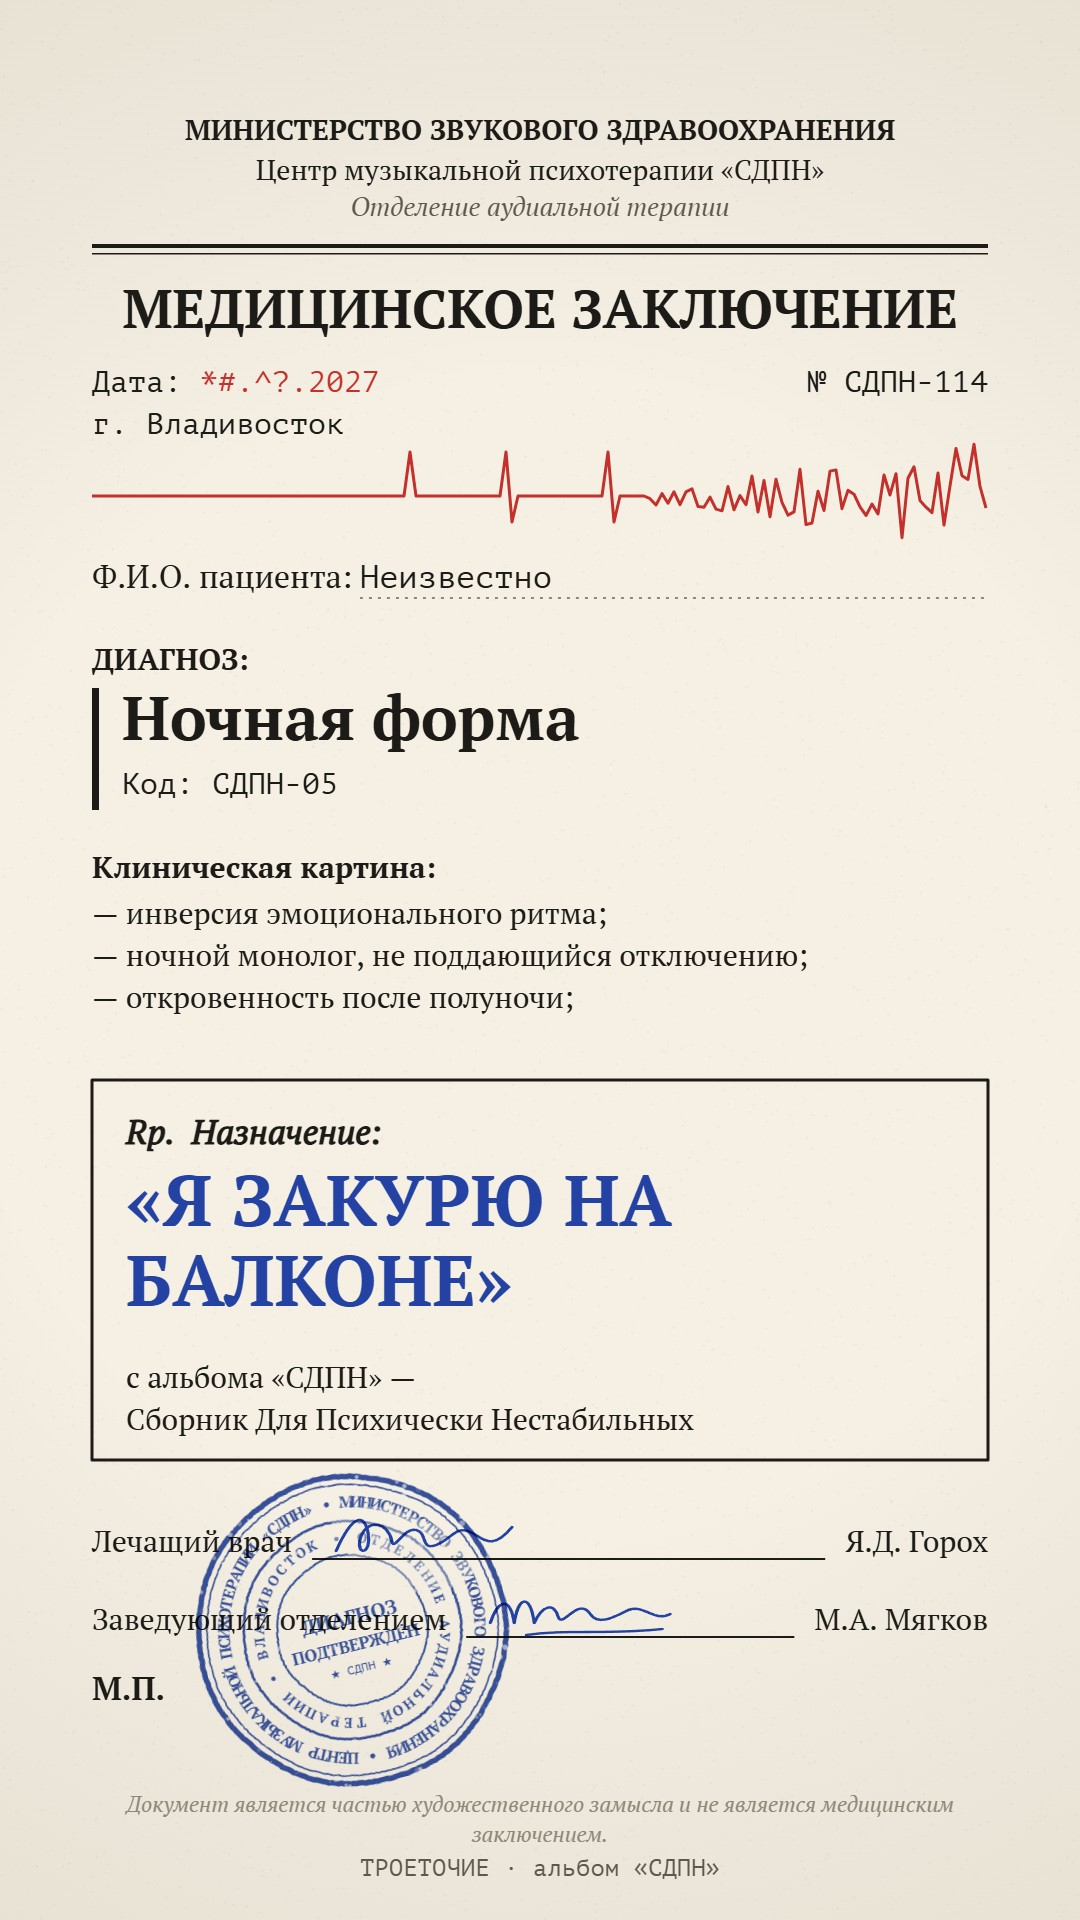
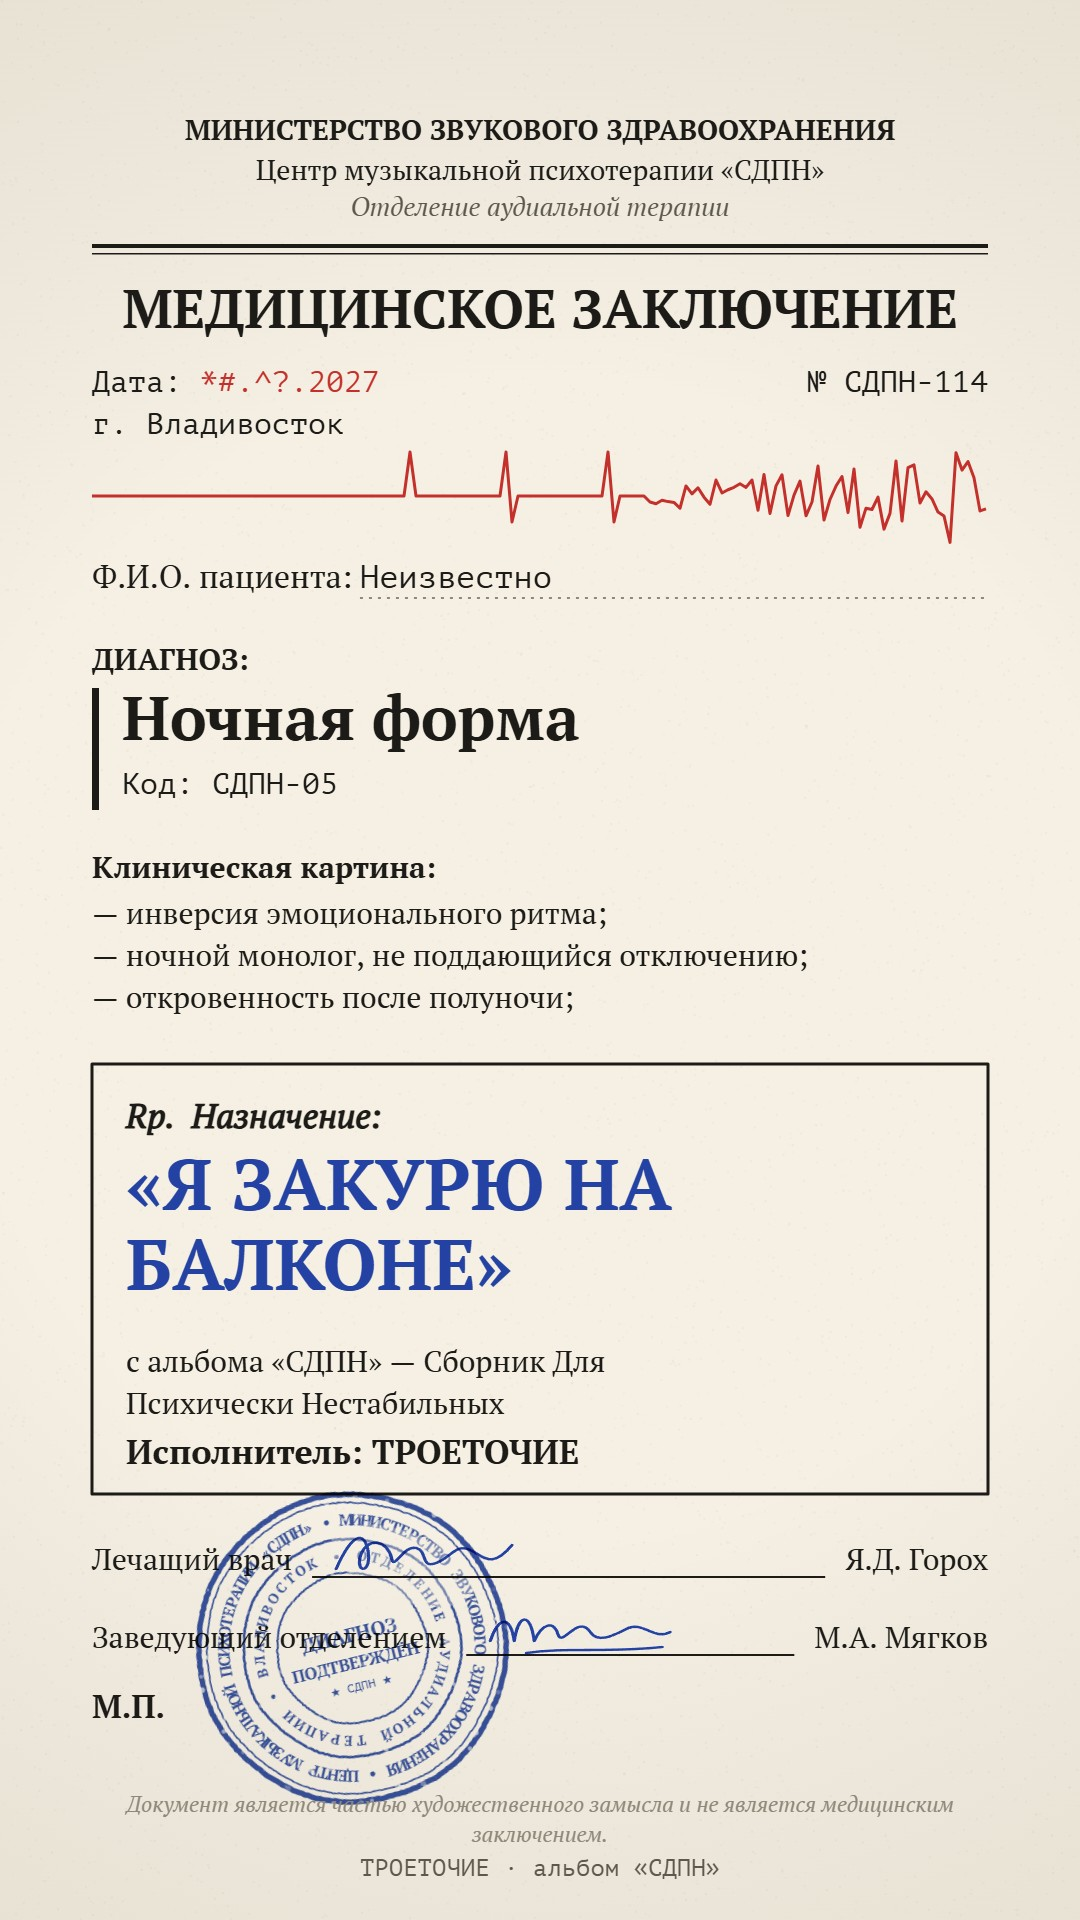
Указан исполнитель альбома: ТРОЕТОЧИЕ
Артист в регистратуре, в назначении, внизу бланка и на карточках для сторис.

Changed region(s): [[0.0917, 0.5625, 0.9167, 0.9375], [0.6111, 0.2188, 0.9167, 0.2812], [0.8861, 0.5312, 0.9167, 0.5625]]

diff --git a/index.html b/index.html
@@ -4,7 +4,7 @@
 <meta charset="utf-8">
 <meta name="viewport" content="width=device-width, initial-scale=1, viewport-fit=cover, user-scalable=no">
 <meta name="theme-color" content="#f5f0e3">
-<title>СДПН — Обследование</title>
+<title>СДПН — ТРОЕТОЧИЕ</title>
 
 <!-- Telegram Mini App SDK (в обычном браузере просто ничего не делает) -->
 <script src="https://telegram.org/js/telegram-web-app.js"></script>
@@ -132,7 +132,13 @@ button { font: inherit; color: inherit; cursor: pointer; }
   position: relative;
 }
 .logo .ecg-under { display: block; width: 100%; height: 34px; margin-top: 2px; }
+/* «альбом ТРОЕТОЧИЕ» под логотипом */
+.byline { text-align: center; margin: 8px 0 4px; }
+.byline-k { display: block; font-family: var(--mono); font-size: 11px; letter-spacing: .22em; color: var(--ink-soft); text-transform: uppercase; }
+.byline-v { display: block; font-family: var(--serif); font-weight: 700; font-size: 22px; letter-spacing: .18em; margin-top: 2px; }
 .decode { margin: 16px 0 4px; display: grid; gap: 10px; }
+.rx .artist { font-weight: 700; letter-spacing: .06em; }
+.fineprint .artist { display: block; margin-top: 6px; font-style: normal; font-family: var(--mono); letter-spacing: .06em; color: var(--ink-soft); }
 .decode div { display: grid; grid-template-columns: 26px 1fr; gap: 6px; font-size: 15px; line-height: 1.35; }
 .decode .n { font-family: var(--mono); color: var(--ink-soft); font-size: 13px; padding-top: 2px; }
 .decode em { display: block; font-style: normal; font-family: var(--mono); font-size: 11.5px; color: var(--ink-soft); margin-top: 2px; letter-spacing: .03em; }
@@ -296,6 +302,7 @@ button { font: inherit; color: inherit; cursor: pointer; }
           <path d="M0 22 H96 l6 -4 l5 4 h10 l4 7 l7 -27 l6 24 l4 -4 h20 l6 -3 l5 3 H198 l3 6 l5 -26 l4 30 l4 -18 l4 14 l3 -9 l3 5 H300" fill="none" stroke="#c4302b" stroke-width="1.6" stroke-linejoin="round"/>
         </svg>
       </div>
+      <div class="byline"><span class="byline-k" data-t="ui.albumBy"></span><span class="byline-v" data-artist></span></div>
       <div class="decode" id="decode"></div>
       <div class="call" id="call"></div>
       <label class="name-field" for="name-input">
@@ -430,7 +437,8 @@ const CONTENT = {
     nameHint: 'Можно не заполнять: в заключении будет «Неизвестно».',
     saveHint: 'Удерживайте изображение, чтобы сохранить его в галерею.',
     storyFallbackHint: 'Сохраните картинку и опубликуйте её в сторис вручную. Назначение вступает в силу с момента публикации.',
-    storyText: 'Мне поставили диагноз. Пройди обследование и ты.',
+    storyText: 'Мне поставили диагноз. Альбом «СДПН» — ТРОЕТОЧИЕ. Пройди обследование и ты.',
+    albumBy: 'альбом',
     noLink: 'Препарат ещё не поступил в аптеки. Следите за каналом.',
     noChannel: 'Ссылка на канал появится позже.',
     preparing: 'Оформляем документ…',
@@ -1076,7 +1084,7 @@ function renderResult() {
     <div class="rx">
       <p class="lbl" style="margin:0 0 6px">Назначение:</p>
       <ol>
-        <li>Курс прослушивания трека<br><span class="track">«${esc(r.track.title)}»</span><br>с альбома «СДПН» (Сборник Для Психически Нестабильных).</li>
+        <li>Курс прослушивания трека<br><span class="track">«${esc(r.track.title)}»</span><br>с альбома «СДПН» (Сборник Для Психически Нестабильных). Исполнитель: <span class="artist">${esc(CONTENT.artist)}</span>.</li>
         <li>Способ применения: аурикулярно, через наушники.</li>
         <li>Режим: ${esc(f.regimen)}</li>
         <li>Длительность курса: ${esc(f.duration)}</li>
@@ -1093,7 +1101,7 @@ function renderResult() {
       <div class="mp">М.П.</div>
       <div class="stamp" id="stamp">${stampSVG()}</div>
     </div>
-    <div class="fineprint">${esc(u.docFooter)}</div>`;
+    <div class="fineprint">${esc(u.docFooter)}<span class="artist">${esc(CONTENT.artist)} · альбом «СДПН»</span></div>`;
 
   document.querySelectorAll('#doc [data-glitch]').forEach(mountGlitch);
   $('#pname').textContent = patientName();
@@ -1247,7 +1255,7 @@ async function drawCard(result, number, name) {
   x.font = '700 30px "PT Serif"'; x.fillText('Клиническая картина:', M, y); y += 46;
   x.font = '400 30px "PT Serif"';
   f.picture.slice(0, 3).forEach((p) => { wrap(x, '— ' + p, W - 2 * M).forEach((l) => { x.fillText(l, M, y); y += 42; }); });
-  y += 30;
+  y += 14;
 
   // Назначение — в рамке
   const boxTop = y;
@@ -1258,10 +1266,11 @@ async function drawCard(result, number, name) {
   do { x.font = `700 ${ts}px "PT Serif"`; tl = wrap(x, `«${result.track.title}»`, W - 2 * M - 68); ts -= 6; } while (tl.length > 2 && ts > 44);
   tl.forEach((l) => { x.fillText(l, M + 34, y); y += ts + 14; });
   x.fillStyle = ink; x.font = '400 30px "PT Serif"'; y += 2;
-  x.fillText('с альбома «СДПН» —', M + 34, y); y += 42;
-  x.fillText('Сборник Для Психически Нестабильных', M + 34, y); y += 30;
+  x.fillText('с альбома «СДПН» — Сборник Для', M + 34, y); y += 42;
+  x.fillText('Психически Нестабильных', M + 34, y); y += 50;
+  x.font = '700 34px "PT Serif"'; x.fillText('Исполнитель: ' + CONTENT.artist, M + 34, y); y += 30;
   x.strokeStyle = ink; x.lineWidth = 3; x.strokeRect(M, boxTop, W - 2 * M, y - boxTop);
-  y += 92;
+  y += 76;
 
   // Подписи + печать поверх «М.П.»
   x.fillStyle = ink; x.font = '400 30px "PT Serif"';
@@ -1385,6 +1394,7 @@ function simulate(n = 20000) {
 /* ---------- Старт ---------- */
 document.querySelectorAll('[data-t]').forEach((el) => { const v = get(el.dataset.t); if (typeof v === 'string') el.textContent = v; });
 document.querySelectorAll('[data-inst]').forEach((el) => { el.innerHTML = instHTML(); });
+document.querySelectorAll('[data-artist]').forEach((el) => { el.textContent = CONTENT.artist; });
 document.querySelectorAll('[data-glitch]').forEach(mountGlitch);
 const params = new URLSearchParams(location.search);
 if (params.has('export')) exportStories();
